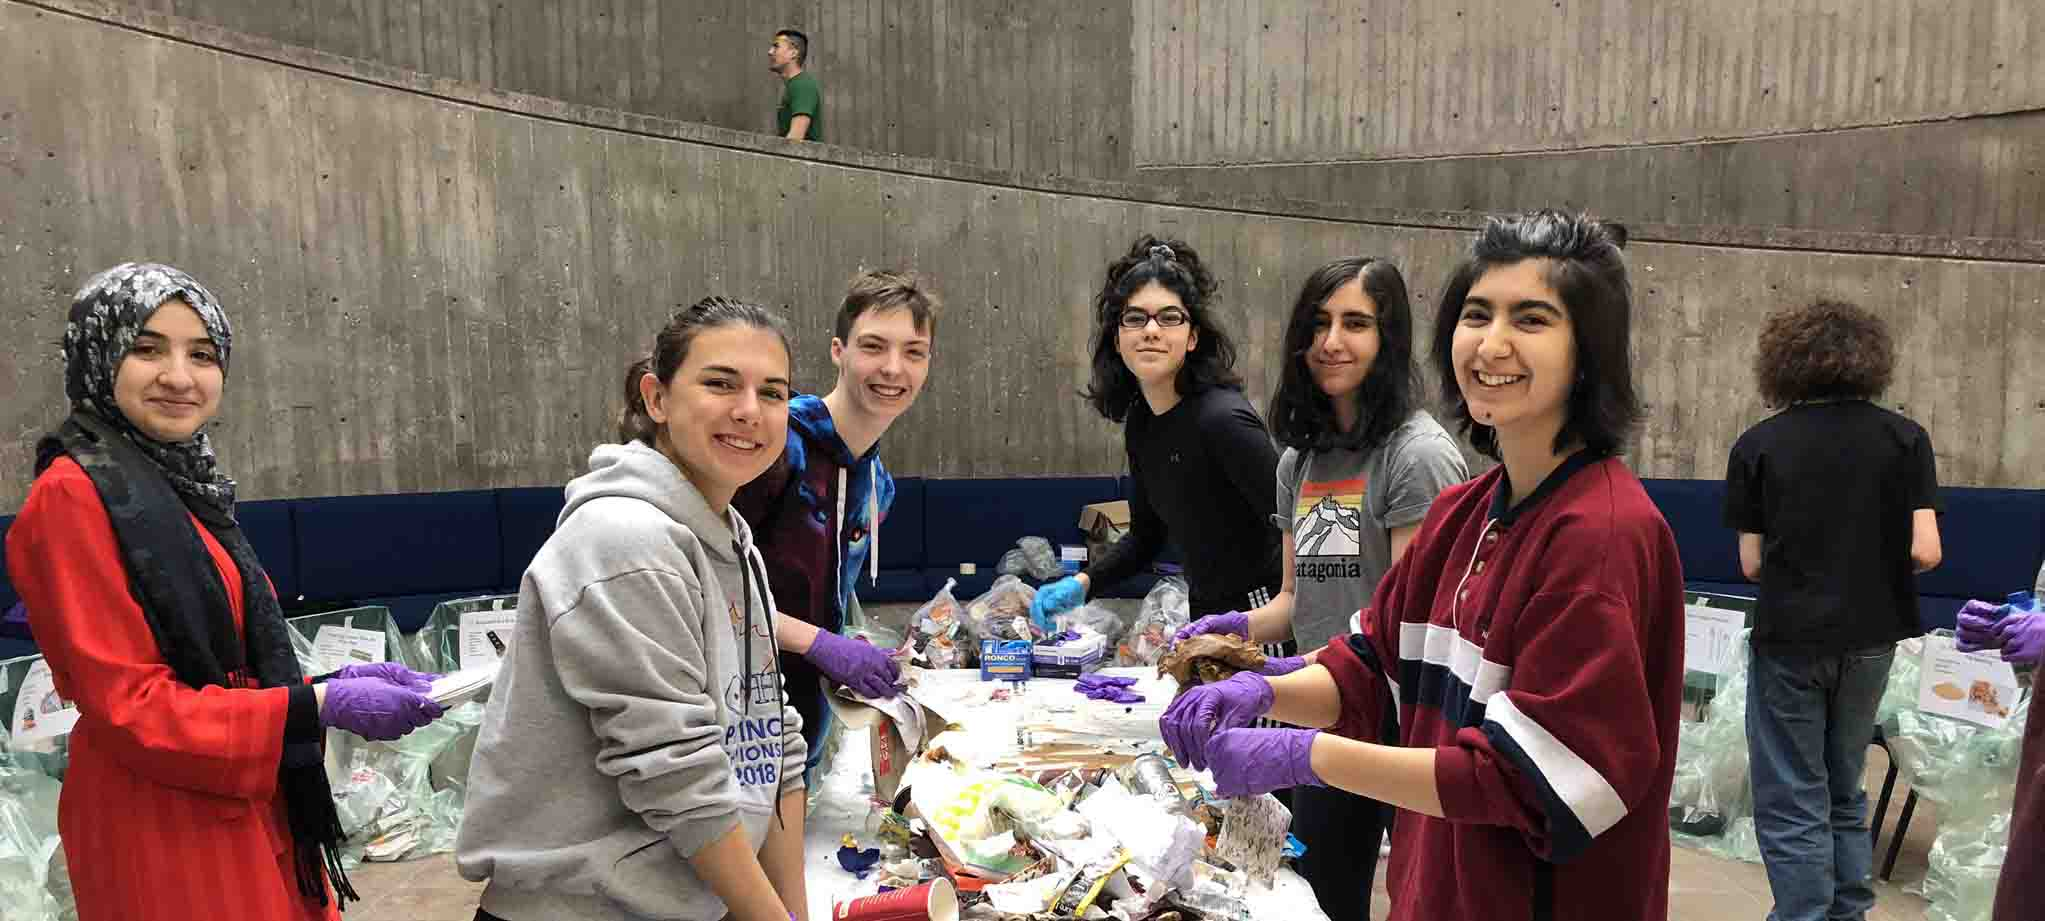
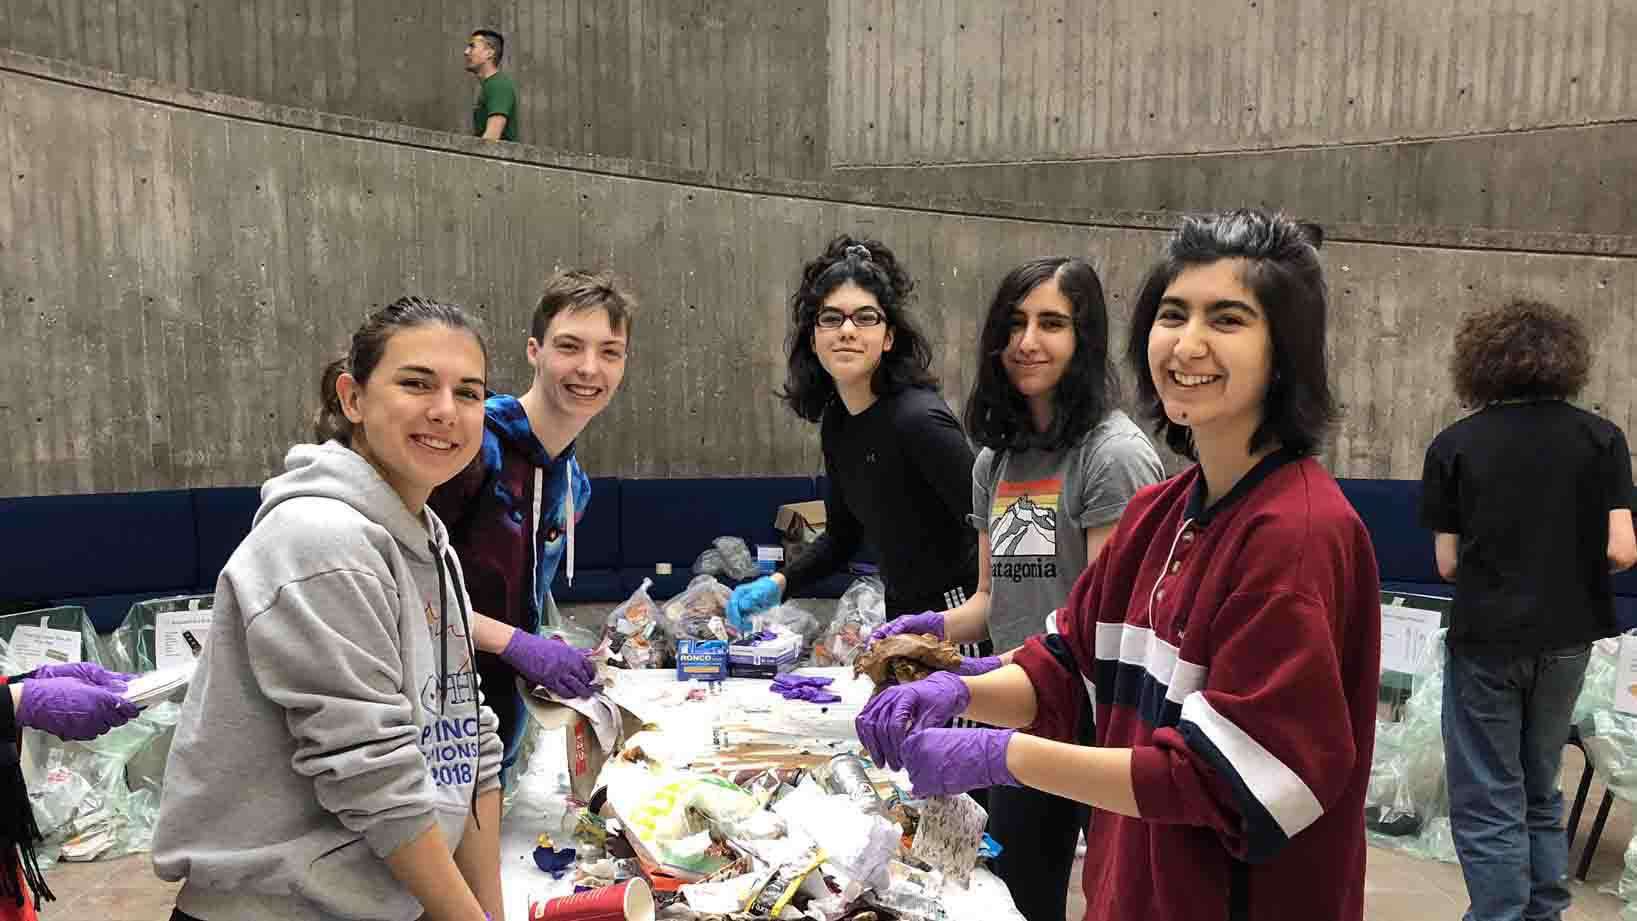
Changed hero aspect ratio & images, added members

diff --git a/aboutUs.html b/aboutUs.html
@@ -27,18 +27,19 @@
     <div class="row">
       <div class="col p-0">
         <div class="hero">
-          <img src="images/yearbookLowRes.jpg" class="hero-img d-block w-100">
+          <picture>
+           <source media="(min-width: 1440px)" srcset="images/yearbookDesktop.jpg">
+           <img src="images/yearbook.jpg" class="hero-img d-block w-100" alt="A group photo of the Environmental Council">
+          </picture>
           <h1 id="hero-text">About Us</h1>
         </div>
       </div>
     </div>
   </div>
   <div class="container" style="overflow-x: hidden;">
-    <div class="row">
-      <h1 class="col-12 text-center title">Why We Are Doing This</h1>
+    <div class="row mt-4">
       <div class="col">
-        <p>As you may or may not know, the world is ending (bluntly put). Pollution is causing the CO<sub>2</sub> (carbon dioxide) and CH<sub>4</sub> (methane) levels in our atmosphere to increase dramatically. This causes the increase of heat
-          that is given by the sun and trapped on Earth. If we don’t do something NOW, Earth could become almost uninhabitable in less than a century!</p>
+        <h5>Established in the 2018-2019 school year, the A.Y. Jackson Environmental Council plans on making changes towards a more sustainably run and environmentally-friendly school by minimizing our environmental impact, and raising awareness not only to students and staff, but also to the school board.</h5>
       </div>
     </div>
     <hr>
@@ -171,6 +172,31 @@
       <div class="col-md mb-3">
         <div class="row">
           <div class="col-5 my-auto">
+            <img src="images/members/alex.jpg" class="w-100" style="min-width: 100px; border-radius: 50%;" alt="Miriam Ghunsl">
+          </div>
+          <div class="col-7 my-auto px-1">
+            <h4 class="text-center pt-2">Alex Dirienzo</h4>
+            <p class="text-center" style="margin-top: -5px;"><a href="mailto:adiri1@ocdsb.ca" target="_blank" aria-label="Email Alex Dirienzo">adiri1@ocdsb.ca</a></p>
+          </div>
+        </div>
+      </div>
+      <div class="col-md mb-3">
+        <div class="row">
+          <div class="col-5 my-auto">
+            <img src="images/members/mayukh.jpg" class="w-100" style="min-width: 100px; border-radius: 50%;" alt="Edward Mo">
+          </div>
+          <div class="col-7 my-auto px-1">
+            <h4 class="text-center pt-2">Mayukh Gautam</h4>
+            <p class="text-center" style="margin-top: -5px;"><a href="mailto:mgaut7@ocdsb.ca" target="_blank" aria-label="Email Mayukh Gautam">mgaut7@ocdsb.ca</a></p>
+          </div>
+        </div>
+      </div>
+    </div>
+
+    <div class="row">
+      <div class="col-md mb-3">
+        <div class="row">
+          <div class="col-5 my-auto">
             <img src="images/members/miriam.jpg" class="w-100" style="min-width: 100px; border-radius: 50%;" alt="Miriam Ghunsl">
           </div>
           <div class="col-7 my-auto px-1">
@@ -207,11 +233,11 @@
       <div class="col-md mb-3">
         <div class="row">
           <div class="col-5 my-auto">
-            <img src="images/members/danyka.jpg" class="w-100" style="min-width: 100px; border-radius: 50%;" alt="Danyka Soanes">
+            <img src="images/members/saugat.jpg" class="w-100" style="min-width: 100px; border-radius: 50%;" alt="Jacob Uras">
           </div>
           <div class="col-7 my-auto px-1">
-            <h4 class="text-center pt-2">Danyka Soanes</h4>
-            <p class="text-center" style="margin-top: -5px;"><a href="mailto:dmccl2@ocdsb.ca" target="_blank" aria-label="Email Danyka Soanes">dmccl2@ocdsb.ca</a></p>
+            <h4 class="text-center pt-2">Saugat Shrestha</h4>
+            <p class="text-center" style="margin-top: -5px;"><a href="mailto:sshre1@ocdsb.ca" target="_blank" aria-label="Email Saugat Shrestha">sshre1@ocdsb.ca</a></p>
           </div>
         </div>
       </div>
@@ -232,14 +258,29 @@
       <div class="col-md mb-3">
         <div class="row">
           <div class="col-5 my-auto">
-            <img src="images/members/jacob.jpg" class="w-100" style="min-width: 100px; border-radius: 50%;" alt="Jacob Uras">
+            <img src="images/members/danyka.jpg" class="w-100" style="min-width: 100px; border-radius: 50%;" alt="Danyka Soanes">
           </div>
           <div class="col-7 my-auto px-1">
+            <h4 class="text-center pt-2">Danyka Soanes</h4>
+            <p class="text-center" style="margin-top: -5px;"><a href="mailto:dmccl2@ocdsb.ca" target="_blank" aria-label="Email Danyka Soanes">dmccl2@ocdsb.ca</a></p>
+          </div>
+        </div>
+      </div>
+    </div>
+
+    <div class="row mb-4">
+      <div class="col-md mb-3">
+        <div class="row">
+          <div class="col-5 my-auto">
+            <img src="images/members/jacob.jpg" class="w-100" style="min-width: 100px; border-radius: 50%;" alt="Jacob Uras">
+          </div>
+          <div class="col-7 my-auto">
             <h4 class="text-center pt-2">Jacob Uras</h4>
             <p class="text-center" style="margin-top: -5px;"><a href="mailto:juras1@ocdsb.ca" target="_blank" aria-label="Email Jacob Uras">juras1@ocdsb.ca</a></p>
           </div>
         </div>
       </div>
+      <div class="col-md mb-3"></div>
     </div>
 
     <div class="row mb-4">

diff --git a/learnMore.html b/learnMore.html
@@ -27,7 +27,7 @@
     <div class="row">
       <div class="col p-0">
         <div class="hero">
-          <img src="https://vastphotos.com/files/uploads/photos/10306/high-resolution-mountains-and-lakes-m.jpg" class="hero-img d-block w-100">
+          <img src="images/vancouverSmog.jpg" class="hero-img d-block w-100" alt="Smog in Vancouver, B.C.">
           <h1 id="hero-text">Learn More</h1>
         </div>
       </div>
@@ -35,7 +35,7 @@
   </div>
   <div class="container">
     <div class="row">
-      <h1 class="col-12 text-center spanning title">Why It's Important</h1>
+      <h1 class="col-12 text-center spanning title">Impacts of Climate Change</h1>
       <div class="col">
         <p>
           Climate change is a significant change in long-term weather patterns<sup>1</sup>. This could be a change in the average precipitation of a region, or a change in the average temperature<sup>2</sup>. Global warming is a measure of climate change and represents an
@@ -64,7 +64,7 @@
     </div>
     <div class="row mb-3">
       <div class="col">
-         <a href="#footnotes" data-toggle="collapse">Footnotes</a>
+         <p class="col-12 text-center spanning"><a href="#footnotes" data-toggle="collapse">Footnotes ▿</a></p>
          <div id="footnotes" class="collapse">
           <small>
             <sup>1</sup> Dan Stillman and Denise Miller, "What are climate and climate change?," ed. Sandra May, NASA, https://www.nasa.gov/audience/forstudents/5-8/features/nasa-knows/what-is-climate-change-58.html, (August 7, 2017).<br>

diff --git a/index.html b/index.html
@@ -34,13 +34,19 @@
           </ol>
           <div class="carousel-inner">
             <div class="carousel-item active">
-              <img src="images/yearbookLowRes.jpg" class="d-block w-100" alt="A group photo of the Environmental Council">
+              <picture>
+               <source media="(min-width: 1440px)" srcset="images/yearbookDesktop.jpg">
+               <img src="images/yearbook.jpg" class="d-block w-100" alt="A group photo of the Environmental Council">
+              </picture>
             </div>
-            <div class="carousel-item"> <!-- We should probably use pictures of us doing stuff here instead of random nature pictures -->
+            <div class="carousel-item">
               <img src="images/wasteAudit.jpg" class="d-block w-100" alt="The Environmental Council separating garbage for the Waste Audit">
             </div>
             <div class="carousel-item">
-              <img src="images/glaciers.jpg" class="d-block w-100" alt="...">
+              <picture>
+                <source media="(min-width: 1440px)" srcset="images/bagGrabDesktop.jpg">
+                <img src="images/bagGrab.jpg" class="d-block w-100" alt="The Environmental Council with plastic bags collected from the Bag Grab Challenge">
+              </picture>
             </div>
           </div>
           <a class="carousel-control-prev" href="#indexCarousel" role="button" data-slide="prev">

diff --git a/goals.html b/goals.html
@@ -27,7 +27,7 @@
     <div class="row">
       <div class="col p-0">
         <div class="hero">
-          <img src="https://vastphotos.com/files/uploads/photos/10306/high-resolution-mountains-and-lakes-m.jpg" class="hero-img d-block w-100">
+          <img src="images/plasticBags.jpg" class="hero-img d-block w-100">
           <h1 id="hero-text">Goals</h1>
         </div>
       </div>
